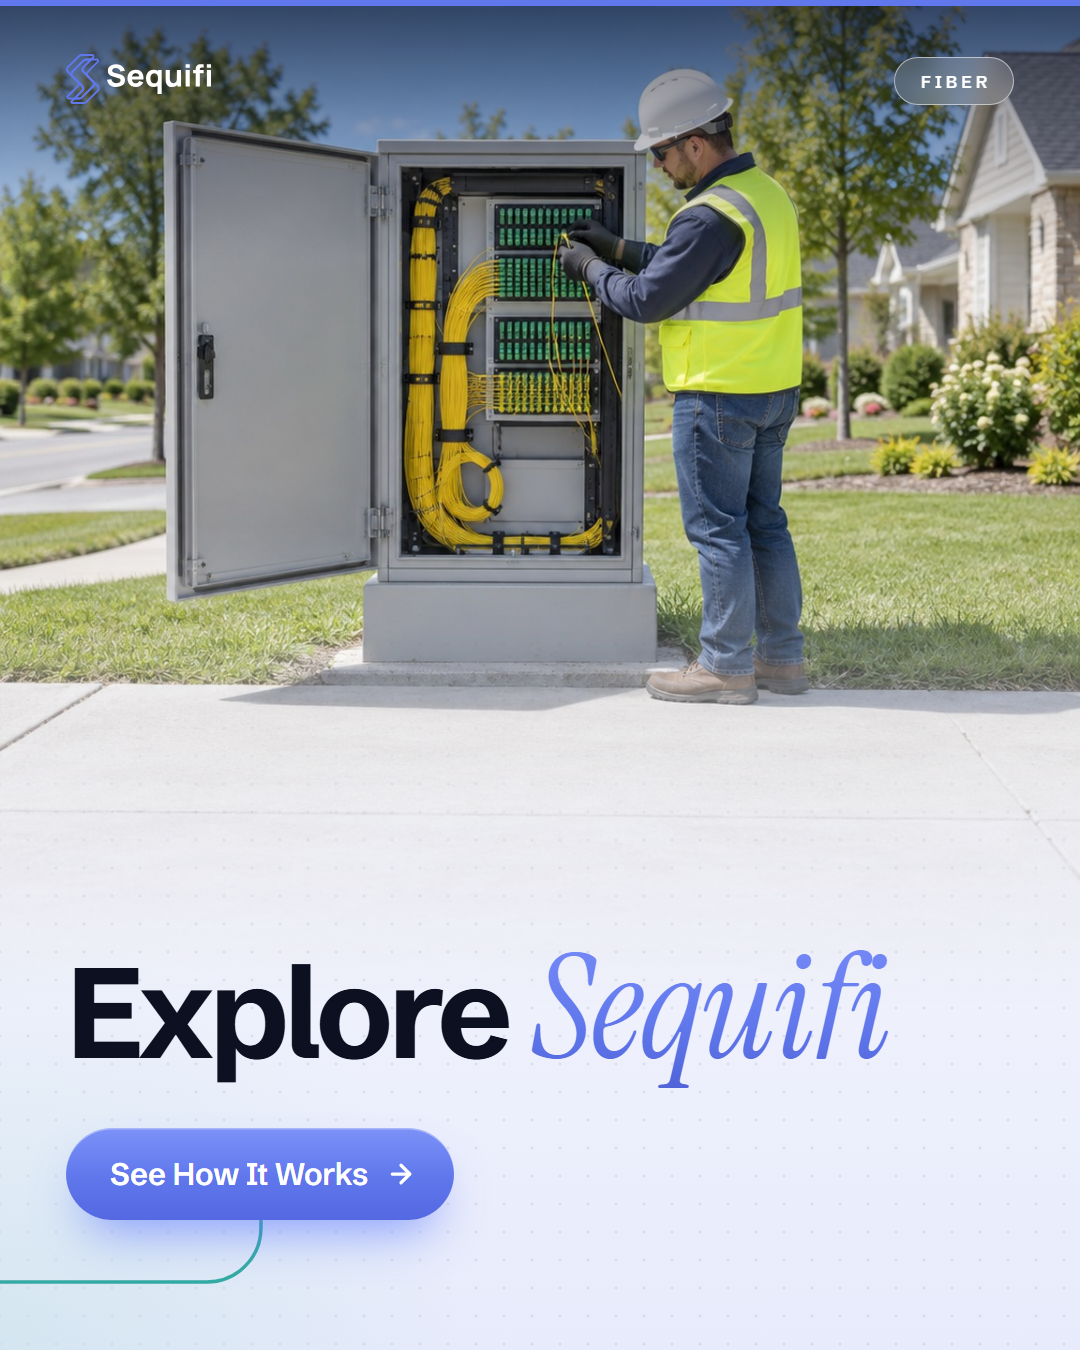
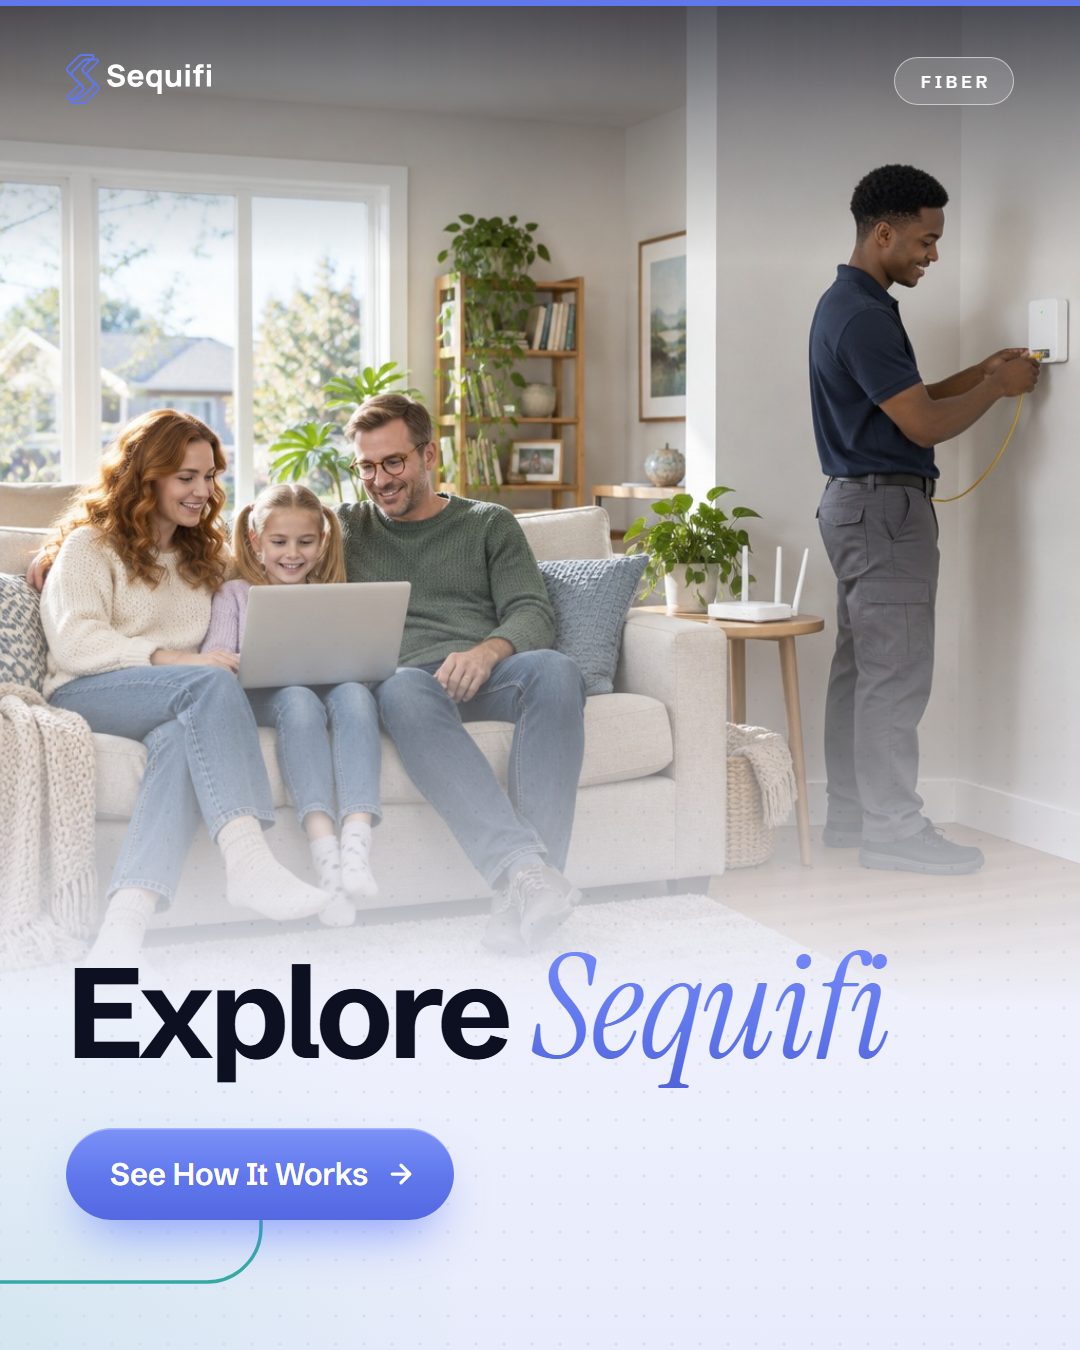
MOFU Fiber card 5: home-centric fiber install photo
Client feedback: the street-side fiber cabinet with a hi-vis technician read
as too commercial. The new photo is a fiber install at home: a family on the
sofa with a laptop while an installer in a plain polo plugs a yellow fiber
cable into a small white wall box. Every person is distinct (an earlier
generation gave the father and the installer the same face).

The photo's top is extended by 72 px of plain wall so the installer clears the
FIBER tag. Prompt, Figma node (29:2) and credit date are updated, and the
card is re-exported.

diff --git a/02_Brand_Assets/photos/CREDITS.md b/02_Brand_Assets/photos/CREDITS.md
@@ -35,7 +35,7 @@ Photos are from [Unsplash](https://unsplash.com/license) (free for commercial us
 | Fiber | T5 | Generated with Figma AI (gpt-image-2.5-sunburst) | 2026-10-16 |
 | Fiber | M2 | Generated with Figma AI (gpt-image-2.5-sunburst) | 2026-10-22 |
 | Fiber | M4 | Generated with Figma AI (gpt-image-2.5-sunburst) | 2026-10-22 |
-| Fiber | M5 | Generated with Figma AI (gpt-image-2.5-sunburst) | 2026-10-22 |
+| Fiber | M5 | Generated with Figma AI (gpt-image-2.5-sunburst) | 2026-10-23 |
 | Fiber | M1 | Generated with Figma AI (gpt-image-2.5-sunburst) | 2026-10-22 |
 | Fiber | M3 | Generated with Figma AI (gpt-image-2.5-sunburst) | 2026-10-22 |
 | Fiber | B1 | Generated with Figma AI (gpt-image-2.5-sunburst) | 2026-10-16 |
